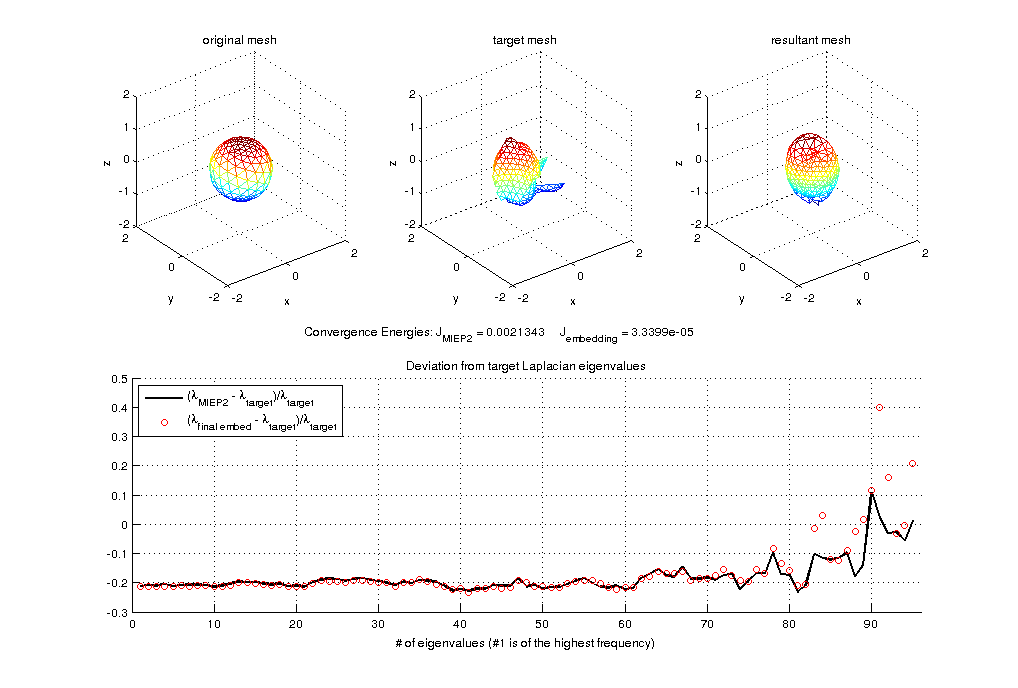
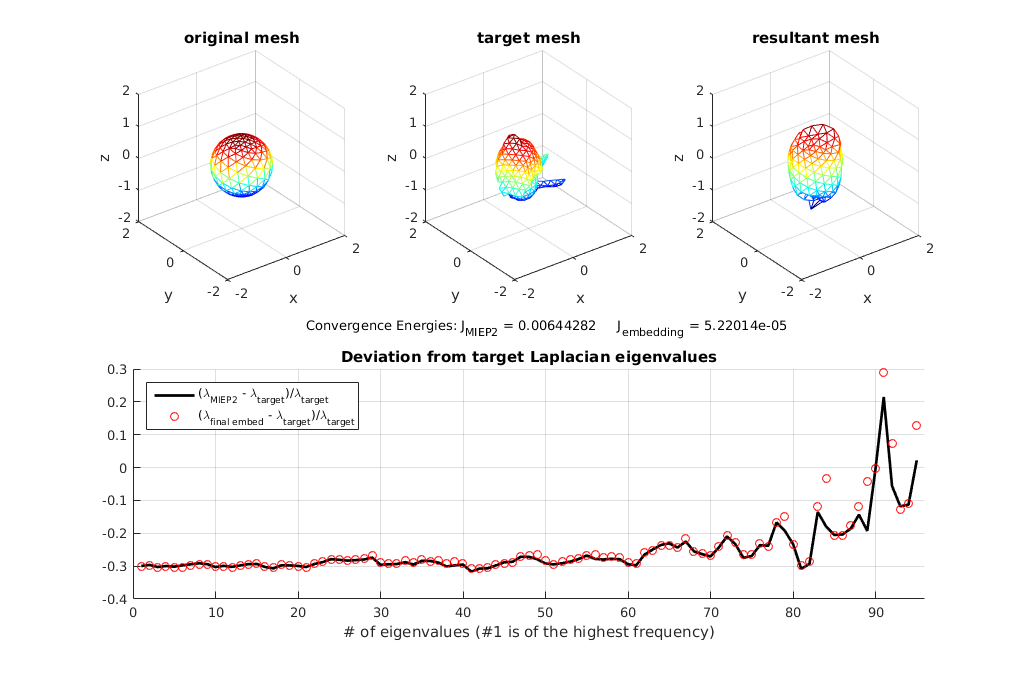
reembed

diff --git a/analysis.m b/analysis.m
@@ -1,9 +1,9 @@
 clear;
 vnorm = @(v) sqrt(v(:,3).^2+v(:,1).^2+v(:,2).^2);
 %% control parameters
-imax = 1e3; % gradient descent maximum iterations
-aC = .4; bC = .6; tC = 15; etolC = 1e-4; % Conformal descent control
-aS = .6; bS = .7; tS = 100; etolS = 1e-4; % invSpec descent control
+imax = 5e3; % gradient descent maximum iterations
+aC = .7; bC = .8; tC = 10; etolC = 1e-5; % Conformal descent control
+aS = .8; bS = .9; tS = 150; etolS = 1e-8; % invSpec descent control
 % numeig = .6; % number of eigenvalues used, <=1 => percent, <=0 => all
 % pert = .512; % scaling coefficient used to control target perturbation
 rng(1432543); % rand seed
@@ -125,10 +125,12 @@ rng(1432543); % rand seed
 %% cMCF debug
 %   load i2_500_t2_abs(Y33(v))_e0.5p0.512.mat
 %   numeig = ceil(.5*numv);
-  load i2_1000_t3_bunny2k_e0.3p0.512.mat
+%   load i2_1000_t3_bunny2k_e0.3p0.512.mat
+%   load i2_300_t3_bunny282_e0.3p0.512_Nmcf1000.mat
+  load i2_300_t3_bunny326_e0.2p0.512_Nmcf1000.mat
   numv = size(v,1); % number of vertices
   numf = size(f,1); % number of faces
-  numeig = ceil(.3*numv);
+  numeig = ceil(.2*numv);
   
 %   [M_T,L_T] = lapbel(v_T,f_T);
 %   D_T = eigvf(L_T,M_T,numeig);
@@ -164,9 +166,10 @@ rng(1432543); % rand seed
     reshape(v0',[],1),isedge,elsq_T);
   v_c = reshape(v_Thist(:,end),3,[])';
 
+  %% how well does it do?
   [M_c,L_c] = lapbel(v_c,f);
   D_c = eigvf(L_c,M_c,numeig);
-  %% how well does it do?
+  
   viewlim = [-1 1];
   close all;
   figure(); hold all; set(gcf,'outerposition',[0, 0, 1024, 768]);
@@ -175,6 +178,7 @@ rng(1432543); % rand seed
   set(gca,'xlim',viewlim,'ylim',viewlim,'zlim',viewlim);
   xlabel('x'); ylabel('y'); zlabel('z');
   title('initial mesh');
+  view([-20 80])
 
   subplot(2,3,2); hold all; view(3); grid on; axis equal
   trisurf(f,v0(:,1),v0(:,2),v0(:,3),s_T,'edgecolor','none')
@@ -183,13 +187,15 @@ rng(1432543); % rand seed
   % colorbar;
   title('S^{-1}');
   text(0,2.5,2,num2str(std(vnorm(v0)),'std(|v|) = %g'));
-
+  view([-20 80])
+  
   subplot(2,3,3); hold all; view(3); grid on; axis equal
   trimesh(f,v_c(:,1),v_c(:,2),v_c(:,3))
   set(gca,'xlim',viewlim,'ylim',viewlim,'zlim',viewlim);
   xlabel('x'); ylabel('y'); zlabel('z');
   title('re-embedded mesh');
-
+  view([-20 80])
+  
   subplot(2,3,4:6); hold all; grid on;
   v = (D_c - D_T)./D_T;
   plot(v(1:end-1),'ro:','linewidth',2);
@@ -209,7 +215,7 @@ rng(1432543); % rand seed
   xm = get(ax,'xlim');
   ym = get(ax,'ylim');
   text(floor(max(xm)/3),max(ym(2) + .18*diff(ym)),...
-    num2str(Jc_hist(end),'Convergence Energies: J_{re-embed} = %g'));
+    num2str(Jc_hist(end),'Ending Energies: J_{re-embed} = %g'));
   colormap('jet');
 
   save('cMCF test.mat','v0','f','v_T','f_T','v_c','D_c',...

diff --git a/test_script.m b/test_script.m
@@ -8,11 +8,11 @@ Y33 = @(v) (v(:,1).^2-3*v(:,2).^2).*v(:,1)./(vnorm(v)).^3;
 Y43 = @(v) (7*v(:,3).^2-3*vnorm(v).^2).*v(:,1).*v(:,3)./(vnorm(v)).^4;
 %% control parameters
 imax = 1e3; % gradient descent maximum iterations
-% aC = .7; bC = .8; tC = 10; etolC = 1e-4; % Conformal descent control
-% aS = .8; bS = .9; tS = 150; etolS = 1e-4; % invSpec descent control
-aC = .4; bC = .7; tC = 10; etolC = 1e-4; % Conformal descent control
-aS = .5; bS = .7; tS = 150; etolS = 1e-4; % invSpec descent control
-numeig = .3; % number of eigenvalues used, <=1 => percent, <=0 => all
+aC = .7; bC = .8; tC = 10; etolC = 1e-8; % Conformal descent control
+aS = .8; bS = .9; tS = 150; etolS = 1e-8; % invSpec descent control
+% aC = .4; bC = .7; tC = 10; etolC = 1e-4; % Conformal descent control
+% aS = .5; bS = .7; tS = 150; etolS = 1e-4; % invSpec descent control
+numeig = .2; % number of eigenvalues used, <=1 => percent, <=0 => all
 pert = .512; % scaling coefficient used to control target perturbation
 rng(1432543); % rand seed
 %% input case == 1; import face-vtx from *.obj file
@@ -32,7 +32,7 @@ target_data.dat = @(v) abs(Y33(v));
 %% target case == 3; import face-vtx from *.obj file
 target_data.num = 3;
 % target_data.dat = 'bunny2k';
-target_data.dat = 'bunny282';
+target_data.dat = 'bunny326';
 target_data.Nmcf = imax;
 %% target case == 4; prescribed eigenvalue target
 % target_data.num = 4;

diff --git a/gradescent.m b/gradescent.m
@@ -41,9 +41,8 @@ for i = 1:imax
       break;
     end
   end
-%   c3 = .1;
-  c3 = .5;
-  c4 = 2;
+%   c3 = .5;
+%   c4 = 2;
   while abs((tau-tau_old)/tau)>eps
     if tau < eps
       warning('wee:too:low','small stepsize. tau = %g',tau);
@@ -63,9 +62,11 @@ for i = 1:imax
       break;
     end
     if b < inf
-      tau = (1-c3)*a+c3*b;
+%       tau = (1-c3)*a+c3*b;
+      tau = (a+b)/2;
     else
-      tau = a*c4;
+%       tau = a*c4;
+      tau = 2*a;
     end
   end
   fprintf('\n');

diff --git a/main.m b/main.m
@@ -83,7 +83,9 @@ else
   D_T = eigvf(L_T,M_T,numeig);
 end
 %% initial conformal factors guess
-s0 = exp(-zeros(numv,1));
+% s0 = exp(-zeros(numv,1));
+% s0 = s_T + exp(-rand(numv,1)*pert);
+s0 = s_T;
 %% MIEP2 via naive gradient descent
 [J_hist,s] = gradescent(@eigencost,imax,aS,bS,tS,etolS,0,...
   s0,M,L,D_T,numeig);
